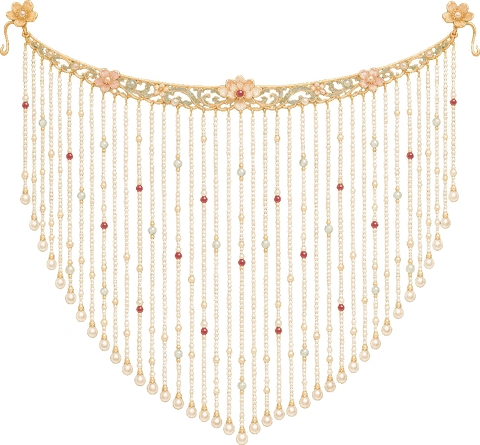
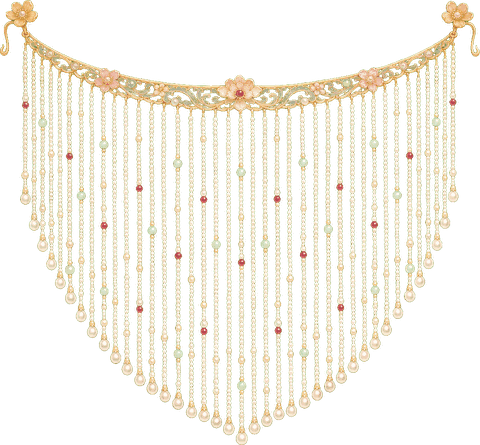
Mạng che 8 bậc (t1..t8) + mạng sa cho cung nữ/ma ma/lãnh cung, gpt-2-6, tách nền bằng khử màu nền; KIT_VEIL src/tierOf/style(file,tier) dùng chung veil-fit.json; xem trước veil-t1..t8-c19.jpg
Claude-Session: https://claude.ai/code/session_01Rc5AsLPQEe167UjGtvecD3

diff --git a/dev/build/j92.js b/dev/build/j92.js
@@ -1,17 +1,27 @@
 /* ================= j92: VẬT PHẨM · TRANG PHỤC · MẠNG CHE MẶT (logic + data only; UI through kit components) ================= */
-/* ---- KIT_VEIL: the pearl-strand face veil (hủy dung, j70 scarOf(p).veil) ----
-   img/veil.png       base cutout (480x445, transparent). Band centre (on the nose bridge) at 50% / 16.5% of the image.
-   img/veil-por.png   384x506 overlay for the 3:4 portrait OPENING, placed for the median face (fallback).
-   img/veil-fig.png   385x900 overlay for a full-body figure centred in a 385x900 box, median face (fallback).
-   img/veil-fit.json  per-image fit, measured on every women's por-/fig- image (face detector):
-                      { "<file name>": [left%, top%, width%, height%, rotateDeg] }
-                      por-*: % of the 384x506 portrait OPENING (j60 .kpor geometry: por cover-fitted 384x466, 42.5 px below the opening top)
-                      fig-*: % of the figure image's own box.
-   Kit use: <img src="img/veil.png"> absolutely positioned with style = KIT_VEIL.style(file) inside the same box; rotate about 50% 16.5%. */
-window.KIT_VEIL={src:"img/veil.png",por:"img/veil-por.png",fig:"img/veil-fig.png",fitUrl:"img/veil-fit.json",origin:"50% 16.5%",fit:null,
+/* ---- KIT_VEIL: pearl-strand face veils by rank (hủy dung, j70 scarOf(p).veil / p.scar.veil) ----
+   img/veil-t1..t8.png (480x445, transparent, gpt-2-6): one per consort rank 0..7 (Đáp ứng → Hoàng hậu), richer each step:
+     t1 silk ribbon + sparse seed pearls · t2 plain silver, even pearls · t3 engraved silver, pink glass · t4 pale gold, carnelian ·
+     t5 gold flower band, jade + ruby · t6 gold clouds, big pearls + emerald · t7 gold filigree, peony hooks, 2 layers + ruby + gold tassels ·
+     t8 gold filigree + kingfisher blue, phoenix hooks, 3 layers, rubies + large pearls.
+   img/veil-gauze.png: plain sheer gauze for cung nữ, ma ma and lãnh cung.   img/veil.png = t5 (old name kept).
+   img/veil-por.png 384x506 / veil-fig.png 385x900: t5 pre-placed for the median face (fallback only).
+   img/veil-fit.json: { "<por-/fig- file>": [left%, top%, width%, height%, rotateDeg] } measured on every women's image
+     (por-*: % of the 384x506 portrait OPENING, j60 .kpor geometry; fig-*: % of the figure image box). The box is for t5 (band at 16.5%).
+   style(file,tier) adapts the box to each tier's own band height (band[] = band centre as a fraction of the image height),
+   so the band always sits on the nose bridge under the eyes and the strands end a little past the chin.
+   Kit use: <img src="${KIT_VEIL.src(KIT_VEIL.tierOf(p))}" style="position:absolute;${KIT_VEIL.style(file,tier)}"> above the portrait,
+   above KIT_SCAR, below the frame. */
+window.KIT_VEIL={tiers:["t1","t2","t3","t4","t5","t6","t7","t8","gauze"],band:{t1:.204,t2:.204,t3:.184,t4:.18,t5:.169,t6:.144,t7:.128,t8:.11,gauze:.157},B0:.165,
+ por:"img/veil-por.png",fig:"img/veil-fig.png",fitUrl:"img/veil-fit.json",fit:null,
+ src:function(t){t=this.band[t]!=null?t:"t5";return `img/veil-${t}.png`},
  on:function(p){try{return !!(p&&p.scar&&p.scar.veil)}catch(e){return false}},
- rect:function(file){const n=String(file||"").split("/").pop();return this.fit&&this.fit[n]||null},
- style:function(file){const r=this.rect(file);if(!r)return "";return `left:${r[0]}%;top:${r[1]}%;width:${r[2]}%;height:${r[3]}%;transform:rotate(${r[4]}deg);transform-origin:${this.origin}`},
+ tierOf:function(p){try{if(!p)return "t5";const rr=typeof personRoleRank==="function"?personRoleRank(p):null;
+   if(rr){if(rr.role==="maid"||rr.role==="mama"||rr.role==="cold")return "gauze";if(rr.role==="player"||rr.role==="consort")return "t"+(Math.max(0,Math.min(7,rr.rank|0))+1);if(rr.role==="thaihau")return "t8"}
+   if(p.cold||p.lanh)return "gauze";const r=typeof rkOf==="function"?rkOf(p):p.rank;return r!=null?"t"+(Math.max(0,Math.min(7,r|0))+1):"t5"}catch(e){return "t5"}},
+ rect:function(file,tier){const n=String(file||"").split("/").pop();const r=this.fit&&this.fit[n];if(!r)return null;const b=this.band[tier]!=null?this.band[tier]:this.band.t5;
+   const bandY=r[1]+this.B0*r[3],h=r[3]*(1-this.B0)/(1-b);return [r[0],+(bandY-b*h).toFixed(2),r[2],+h.toFixed(2),r[4],b]},
+ style:function(file,tier){const r=this.rect(file,tier||"t5");if(!r)return "";return `left:${r[0]}%;top:${r[1]}%;width:${r[2]}%;height:${r[3]}%;transform:rotate(${r[4]}deg);transform-origin:50% ${(r[5]*100).toFixed(1)}%`},
  load:function(){if(this.fit||this._ld)return;this._ld=1;try{fetch(this.fitUrl).then(r=>r.ok?r.json():null).then(j=>{if(j)KIT_VEIL.fit=j}).catch(()=>{})}catch(e){}}};
 try{KIT_VEIL.load()}catch(e){}
 /* ---- KIT_SCAR: hủy dung scratch marks drawn ON the face (game-style brush strokes, crimson, soft edge, semi-transparent) ----
